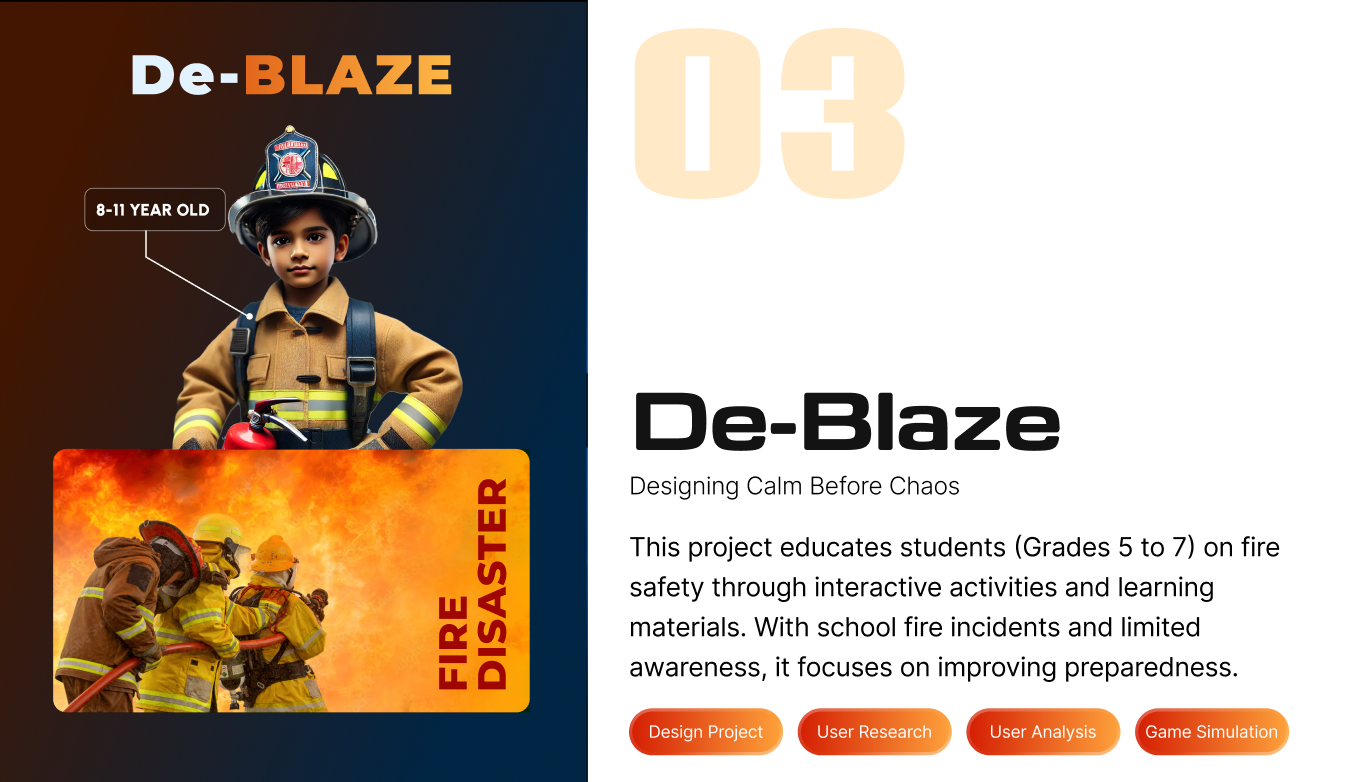
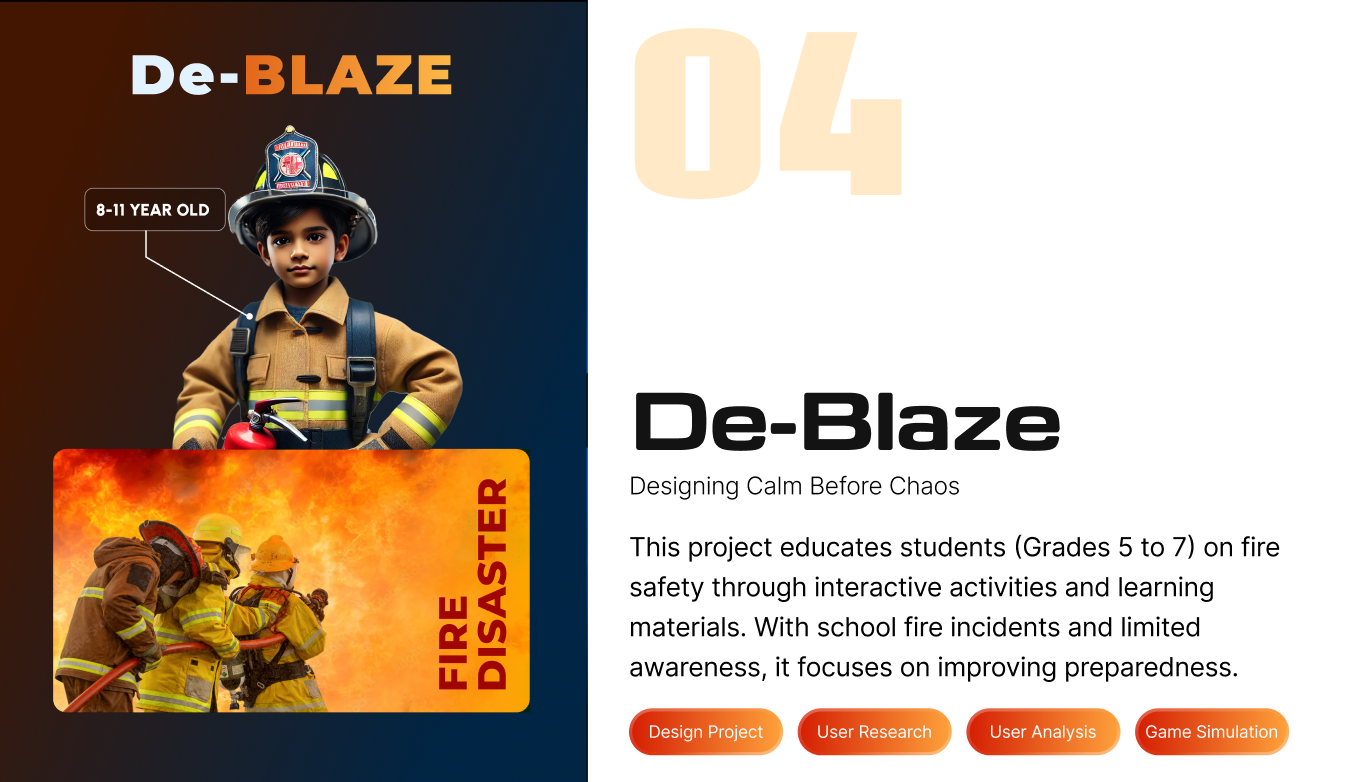
parkiq added

Changed region(s): [[0.551, 0.0307, 0.6735, 0.2762]]

diff --git a/index.html b/index.html
@@ -223,14 +223,15 @@
       <!-- Project section  -->
       <div class="row bg">
 
-                <a target="_blank" href="https://www.behance.net/gallery/224606319/MOODLY-Your-emotional-companion" class="col thumbnail card-link">
-          <img src="images/Moodly-new.png" alt="" />
+                <a target="_blank" href="https://www.behance.net/gallery/242206693/ParkIQ-Smart-Parking-monitoring-system" class="col thumbnail parkIQ card-link">
+          <img src="images/ParkIQ-new.png" alt="" />
           <button class="button-33">
-            <span class="label">Moodly</span>
+            <span class="label">ParkIQ</span>
             <span class="arrow">&rarr;</span>
           </button>
         </a>
 
+        
         <a target="_blank" href="UX-lens.html" class="col thumbnail blue">
           <img src="images/UXLens-AI-new.png" alt="" />
           <button class="button-33 orange-btn">
@@ -239,6 +240,14 @@
             </button>
           </button>
         </a>
+                <a target="_blank" href="https://www.behance.net/gallery/224606319/MOODLY-Your-emotional-companion" class="col thumbnail card-link">
+          <img src="images/Moodly-new.png" alt="" />
+          <button class="button-33">
+            <span class="label">Moodly</span>
+            <span class="arrow">&rarr;</span>
+          </button>
+        </a>
+
 
 
 
@@ -262,6 +271,14 @@
           <img src="images/GhostShooter-new.png" alt="" />
           <button class="button-33">
             <span class="label">Game Design</span>
+            <span class="arrow">&rarr;</span>
+            </button> 
+          </button>
+        </a> 
+        <a target="_blank" href="https://www.behance.net/gallery/236734661/Jhalak-Relive-Forgotten-Memories" class="col thumbnail orange">
+          <img src="images/Jhalak-new.png" alt="" />
+          <button class="button-33">
+            <span class="label">Jhalak</span>
             <span class="arrow">&rarr;</span>
             </button> 
           </button>

diff --git a/style.css b/style.css
@@ -232,6 +232,22 @@
   background: linear-gradient(to top, #edebeb, #f9e8d1);
   filter: grayscale(0);
 }
+.parkIQ {
+  text-align: center;
+  background-color: #edebeb;
+  padding: 16px;
+  border-radius: 34px;
+  cursor: pointer;
+  transition: all 450ms;
+  margin: 36px 24px;
+  /* filter: grayscale(100%); */
+}
+
+.parkIQ:hover {
+  animation: shake 1s;
+  background: linear-gradient(to top, #edebeb, #b7f99e);
+  filter: grayscale(0);
+}
 
 .blue {
   text-align: center;
